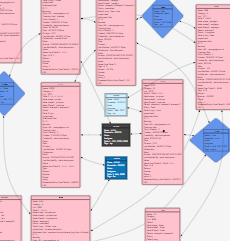
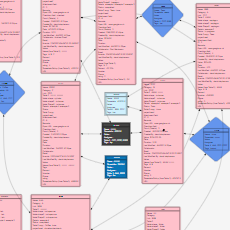
Fixed bug with empty row display text. Errors handled as SVG.

diff --git a/frontend/RenderGraphViz.js b/frontend/RenderGraphViz.js
@@ -14,6 +14,9 @@ export function RenderGraphViz(settings, tableMetaDatas) {
 	let source = 'digraph {\n\t'
 	source += 'bgcolor=transparent\n\t';
 	source += 'pad=0.25\n\t';
+	source += `layout=${settings.layoutEngine}\n\t`;
+	source += 'defaultdist="4"\n\t';
+	source += 'concentrate=true\n\t';
 	source += 'nodesep=0.75\n\t';
 
 	if (chartOrientation != ChartOrientation.HORIZONTAL) {
@@ -161,6 +164,11 @@ function createANodeFromAView(tableSettings, displayedRecords, nodeMap, edges, r
 	if (record.name.length > 50) {
 		displayText += '...';
 	}
+	displayText = escapeHtml(displayText);
+	
+	if(displayText == ""){
+		displayText = " ";
+	}
 
 	let nodeDetails = `<<table border="0" cellborder="1" cellspacing="0" cellpadding="4"> <tr> <td> <b>${displayText}</b></td></tr>  <tr><td><table border="0" cellborder="0" cellspacing="0" >\n`
 
@@ -216,7 +224,6 @@ function createANodeFromAView(tableSettings, displayedRecords, nodeMap, edges, r
 			}
 			return false;
 		});
-		console.log("toEmbedRecords=" + toEmbedRecords);
 
 		for (let embedRecord of toEmbedRecords) {
 			let rowValueAsString = embedRecord.name;
@@ -234,8 +241,6 @@ function createANodeFromAView(tableSettings, displayedRecords, nodeMap, edges, r
 			for (let fieldMetaData of Object.values(tableMetaDataB)) {
 				if (fieldMetaData.fieldType == "multipleRecordLinks" && fieldMetaData.embedField == false) {
 					let cellValue = embedRecord.getCellValue(fieldMetaData.fieldName);
-
-					//nodeDetails += `<tr> <td port="${fieldMetaData.fieldId}" align="left" >${fieldMetaData.fieldName} : ${cleanCellValueAsString}</td> </tr>`;
 
 					if (cellValue != null && includedTables.has(fieldMetaData.linkedTableId)) {
 						cellValue.forEach(item => {

diff --git a/frontend/GraphVizWrapper.js b/frontend/GraphVizWrapper.js
@@ -13,16 +13,23 @@ export default ({ dot, subtractWidth, svgRef, children }) => {
 
 	useEffect(() => {
 		async function getSvg() {
-			const graphviz = await Graphviz.load();
-			const svg = await graphviz.dot(dot);
-			setSvg(svg);
-		}
+			try {
+				const graphviz = await Graphviz.load();
+				const svg = await graphviz.dot(dot);
+				setSvg(svg);
+			} catch(error){
+				console.log("error=" + error);
+				setSvg(`<svg height="30" width="200">
+				<text x="0" y="15" fill="red">${error}</text>
+			  </svg>`);
+			}
+		}	
 		getSvg();
 	}, [dot]);
 
 	return (
 		<div>
-			<TransformWrapper maxScale={32}>
+			<TransformWrapper maxScale={100}>
 				<TransformComponent>
 					<SVG
 						innerRef={svgRef}
